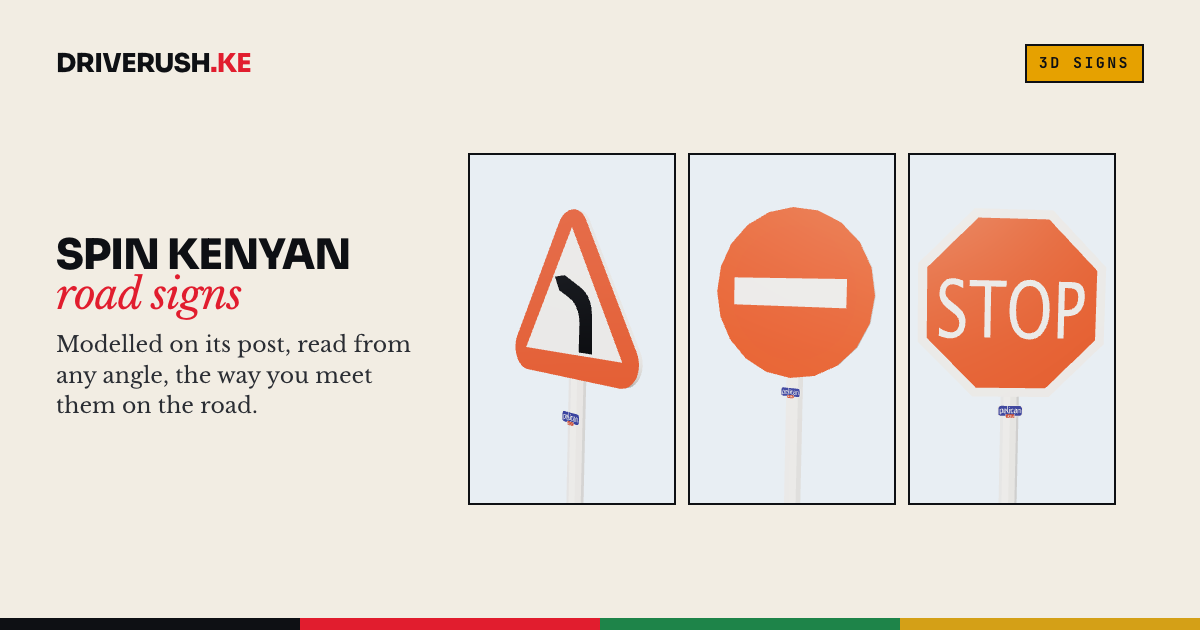
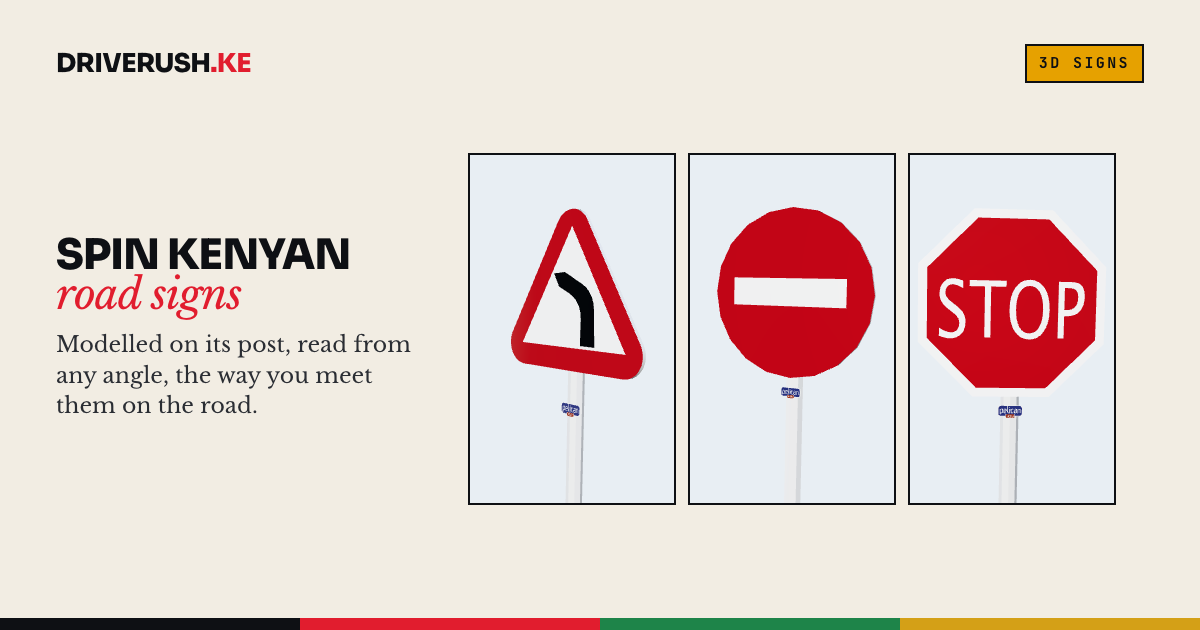
feat: give the 3D signs true colours and real reflective sheeting
The models ship a brick orange red and a washed-out periwinkle blue, and
fiber's default ACES tone mapping pushed the red further toward orange.
Correct both at load, close to RAL 3020 and RAL 5017, and switch to neutral
tone mapping so base colours stay true. The GLB files are untouched.

Faces are now retroreflective sheeting: a glossy clearcoat that shows
reflection strips sweeping across as the sign turns, plus a shader term
that glows brightest head-on with a honeycomb of twinkling cells. It's a
hint by day and the main light source at night. Backs, posts, black legend
and the Pelican sticker don't glow. The strips leave the resting camera
angle clear so a sign at rest keeps its true colour and a readable legend.

Re-shoot the homepage poster and the 3D social card to match, turning the
card's first tile to -20 degrees so it doesn't land on a reflection strip.

Changed region(s): [[0.7708, 0.3317, 0.925, 0.6635], [0.5858, 0.3317, 0.74, 0.6333], [0.4008, 0.3317, 0.555, 0.6937]]

diff --git a/app/components/brand/sign-3d-canvas.tsx b/app/components/brand/sign-3d-canvas.tsx
@@ -5,9 +5,11 @@
  * never in the main bundle. Keep all heavy 3D imports in here.
  *
  * The GLBs are full roadside signs (panel on a ~5-unit post), so the camera
- * frames the panel close with a sliver of post showing below. Materials are flat
- * PBR; we add an in-engine `Lightformer` environment (no external HDRI fetch) for
- * a reflective road-sign sheen, plus a soft contact shadow to ground it.
+ * frames the panel close with a sliver of post showing below. Their materials are
+ * flat colours, so the sign look is built here: faces become retroreflective
+ * sheeting (see `sheetingMaterial`), lit by an in-engine `Lightformer` environment
+ * (no external HDRI fetch) whose strips sweep across the gloss as the sign turns,
+ * plus a soft contact shadow to ground it.
  */
 import * as React from "react";
 import { Canvas, useThree, type ThreeElements } from "@react-three/fiber";
@@ -40,48 +42,152 @@ export type Sign3DCanvasProps = {
   onModelReady?: (modelSrc: string) => void;
 };
 
-/** Load a GLB, clone it (so per-instance material tweaks don't poison the cache)
- *  and give the surfaces a touch more reflectivity for the sign sheen. */
+/** Real road-sign colours, close to RAL 3020 Traffic Red and RAL 5017 Traffic Blue.
+ *  The GLBs ship a brick orange (#c24825) and a washed-out periwinkle (#607cf3,
+ *  #6284e4), so they're corrected at load rather than re-exporting 83 models. */
+const SIGN_RED = new THREE.Color("#c1121c");
+const SIGN_BLUE = new THREE.Color("#00559a");
+function trueSignColor(c: THREE.Color): THREE.Color {
+  if (c.r > 0.45 && c.g < 0.1 && c.b < 0.05) return SIGN_RED;
+  if (c.b > 0.6 && c.r < 0.2 && c.g < 0.3) return SIGN_BLUE;
+  return c;
+}
+
+/** The little Pelican sticker on the post is printed vinyl, not sheeting. */
+const isSticker = (name: string) => /Pelican|Dark_Blue|pasted__/.test(name);
+
+/** How hard the sheeting throws light back: a hint by day, the whole show at night. */
+const RETRO_GAIN = { day: 0.16, night: 1.4 };
+
+/** Front of the face on sign-on-post models. The post's radius stops just short
+ *  of it, so the post doesn't glow along with the sheeting. */
+const POST_FRONT_Z = 0.102;
+
+/**
+ * The part of the sheeting no stock material does: returning light to its source.
+ * The camera is the headlight, so brightness follows how squarely the face looks
+ * back at it, a broad glow and then a flash as the sign comes head-on. Up close the
+ * sheeting shows its honeycomb of sealed cells, each catching the light a little
+ * differently, so they twinkle as the sign turns. Cells fade out once they get too
+ * small to draw cleanly. Multiplying by the base colour keeps black legend black,
+ * as printed ink doesn't retroreflect.
+ */
+const SHEETING_GLSL = `
+  float signFacing = saturate(dot(normal, normalize(vViewPosition)));
+  float signRetro = 0.85 * pow(signFacing, 1.5) + 0.5 * pow(signFacing, 48.0);
+
+  vec2 signGrid = vSignXY / 0.024;
+  const vec2 signHex = vec2(1.0, 1.7320508);
+  vec2 signA = mod(signGrid, signHex) - signHex * 0.5;
+  vec2 signB = mod(signGrid - signHex * 0.5, signHex) - signHex * 0.5;
+  vec2 signLocal = dot(signA, signA) < dot(signB, signB) ? signA : signB;
+  float signSeed = fract(sin(dot(signGrid - signLocal, vec2(127.1, 311.7))) * 43758.5453);
+  float signAngle = signSeed * 6.2832;
+  float signTwinkle = 0.5 + 0.5 * sin(signAngle * 3.0 + dot(normal.xy, vec2(cos(signAngle), sin(signAngle))) * 22.0);
+  float signEdge = 0.5 - max(abs(signLocal.x), dot(abs(signLocal), normalize(signHex)));
+  float signCell = mix(0.5, 1.0, smoothstep(0.0, 0.07, signEdge)) * (0.8 + 0.5 * signTwinkle);
+  float signDetail = 1.0 - smoothstep(0.4, 0.8, fwidth(signGrid.x) + fwidth(signGrid.y));
+
+  totalEmissiveRadiance += diffuseColor.rgb * uRetroGain * signRetro
+    * mix(1.0, signCell, signDetail) * vSheeting;
+`;
+
+/**
+ * Retroreflective sheeting: a satin colour layer under a glossy acrylic overlay
+ * (the clearcoat carries the crisp reflections), plus {@link SHEETING_GLSL}.
+ */
+function sheetingMaterial(
+  src: THREE.MeshStandardMaterial,
+  retroGain: { value: number },
+  faceMinZ: number,
+): THREE.MeshPhysicalMaterial {
+  const mat = new THREE.MeshPhysicalMaterial({
+    name: src.name,
+    side: src.side,
+    color: trueSignColor(src.color),
+    metalness: 0,
+    roughness: 0.5,
+    specularIntensity: 0.35,
+    clearcoat: 1,
+    clearcoatRoughness: 0.14,
+  });
+  mat.onBeforeCompile = (shader) => {
+    shader.uniforms.uRetroGain = retroGain;
+    shader.uniforms.uFaceMinZ = { value: faceMinZ };
+    shader.vertexShader =
+      "uniform float uFaceMinZ;\nvarying float vSheeting;\nvarying vec2 vSignXY;\n" +
+      shader.vertexShader.replace(
+        "#include <begin_vertex>",
+        `#include <begin_vertex>
+        // Sign faces all look down +Z, so this leaves out the back, edges and post.
+        vSheeting = step(0.3, normal.z) * step(uFaceMinZ, position.z);
+        vSignXY = position.xy;`,
+      );
+    shader.fragmentShader =
+      "uniform float uRetroGain;\nvarying float vSheeting;\nvarying vec2 vSignXY;\n" +
+      shader.fragmentShader.replace(
+        "#include <emissivemap_fragment>",
+        `#include <emissivemap_fragment>\n${SHEETING_GLSL}`,
+      );
+  };
+  mat.customProgramCacheKey = () => "road-sign-sheeting";
+  return mat;
+}
+
+/** Load a GLB, clone it (so per-instance material changes don't poison the cache)
+ *  and dress its faces in retroreflective sheeting. */
 function SignModel({
   modelSrc,
   groupRef,
+  night,
   yaw = 0,
   pitch = 0,
   onReady,
 }: {
   modelSrc: string;
   groupRef: React.RefObject<THREE.Group | null>;
+  night: boolean;
   yaw?: number;
   pitch?: number;
   onReady?: () => void;
 }) {
   const { scene } = useGLTF(modelSrc);
+  const invalidate = useThree((s) => s.invalidate);
+
+  // One uniform shared by the sign's materials, so a theme flip needs no rebuild.
+  const [retroGain] = React.useState(() => ({
+    value: night ? RETRO_GAIN.night : RETRO_GAIN.day,
+  }));
+  React.useEffect(() => {
+    retroGain.value = night ? RETRO_GAIN.night : RETRO_GAIN.day;
+    invalidate();
+  }, [night, retroGain, invalidate]);
 
   const model = React.useMemo(() => {
     const root = scene.clone(true);
+    // A handful of models are bare panels with no post to leave out.
+    const hasPost =
+      new THREE.Box3().setFromObject(root).getSize(new THREE.Vector3()).y > 3;
+    const faceMinZ = hasPost ? POST_FRONT_Z : -Infinity;
     root.traverse((o) => {
       const mesh = o as THREE.Mesh;
       if (!mesh.isMesh) return;
       mesh.castShadow = true;
       mesh.receiveShadow = true;
-      // Retroreflective road-sign look: pick up the environment, stay matte
-      // enough to read the colour, never mirror-shiny. Clone first so the tweak
-      // doesn't poison the GLB cache shared across sign instances.
-      const tweak = (m: THREE.Material): THREE.Material => {
-        const mat = m.clone() as THREE.MeshStandardMaterial;
-        if ("envMapIntensity" in mat) mat.envMapIntensity = 1.15;
-        if ("roughness" in mat)
-          mat.roughness = Math.min(mat.roughness ?? 0.5, 0.42);
-        if ("metalness" in mat)
-          mat.metalness = Math.max(mat.metalness ?? 0, 0.04);
-        return mat;
-      };
+      const dress = (m: THREE.Material): THREE.Material =>
+        isSticker(m.name)
+          ? m.clone()
+          : sheetingMaterial(
+              m as THREE.MeshStandardMaterial,
+              retroGain,
+              faceMinZ,
+            );
       mesh.material = Array.isArray(mesh.material)
-        ? mesh.material.map(tweak)
-        : tweak(mesh.material);
+        ? mesh.material.map(dress)
+        : dress(mesh.material);
     });
     return root;
-  }, [scene]);
+  }, [scene, retroGain]);
 
   // The GLB resolves a commit (or more) after the camera rig mounts, so by then
   // FitCamera has already run against an empty group. Once the geometry is in
@@ -178,6 +284,20 @@ function FitCamera({
   return null;
 }
 
+/** Softboxes ringed around the sign: azimuth in degrees (0 = straight out of the
+ *  face). The resting camera's reflection lands near -23 and a strip there would
+ *  wash the red pink and grey out the legend, so that gap stays open: the sign
+ *  rests in its true colour with a highlight at the edge, and the strips only cross
+ *  the face as it turns. Uneven spacing keeps the sweep from feeling mechanical. */
+const REFLECTION_STRIPS = [
+  { azimuth: -76, width: 2.2, power: 3 },
+  { azimuth: -44, width: 1, power: 5 },
+  { azimuth: 6, width: 0.7, power: 4 },
+  { azimuth: 52, width: 1.6, power: 4 },
+  { azimuth: 150, width: 2, power: 3 },
+  { azimuth: -140, width: 1.2, power: 3 },
+];
+
 function SceneContents({
   modelSrc,
   yaw = 0,
@@ -212,20 +332,13 @@ function SceneContents({
 
       {night ? (
         <>
-          {/* Moonlit ambience — cool and low. */}
-          <ambientLight intensity={0.25} color="#2b3a5e" />
+          {/* Moonlit ambience: cool and low. The sheeting supplies the brightness. */}
           <hemisphereLight
-            intensity={0.4}
-            color="#1b2747"
+            intensity={0.5}
+            color="#2b3a5e"
             groundColor="#05070d"
           />
-          {/* Warm streetlight / headlight key, raking the face. */}
-          <directionalLight
-            position={[1.4, 3.2, 7]}
-            intensity={1.6}
-            color="#ffce92"
-          />
-          {/* Cool moon fill from above for separation. */}
+          {/* Cool moon rim from above for separation. */}
           <directionalLight
             position={[-4, 8, 1]}
             intensity={0.5}
@@ -234,55 +347,53 @@ function SceneContents({
         </>
       ) : (
         <>
-          {/* Daylight — bright and neutral-warm. */}
-          <ambientLight intensity={0.7} />
+          {/* Diffuse daylight. No flat ambient: it washes out the red and leaves
+              no headroom for the reflections to read on white. */}
           <hemisphereLight
-            intensity={0.55}
-            color="#cfe2ff"
-            groundColor="#b9a884"
+            intensity={0.85}
+            color="#e8f1ff"
+            groundColor="#bdb29a"
           />
           {/* Sun key, raking the face. */}
           <directionalLight
             position={[1.5, 4, 8]}
-            intensity={2}
-            color="#fff4e0"
-          />
-          {/* Soft sky fill. */}
-          <directionalLight
-            position={[-6, 5, -2]}
-            intensity={0.5}
-            color="#cdddee"
+            intensity={1.15}
+            color="#fff6e8"
           />
         </>
       )}
 
-      {/* In-engine studio env — reflections without fetching a remote HDRI.
-          Subdued + cool at night, bright by day. */}
+      {/* What the gloss reflects: a dim sky so the colour stays saturated, then
+          narrow bright strips around the sign that sweep across it as it turns.
+          In-engine, so no remote HDRI fetch. */}
       <Environment resolution={256}>
+        <color attach="background" args={[night ? "#04060c" : "#39424d"]} />
         <Lightformer
-          intensity={night ? 1.2 : 2.2}
-          position={[0, 4, 5]}
-          scale={[8, 8, 1]}
-          color={night ? "#ffd9a3" : "#fff7ec"}
+          intensity={night ? 0.12 : 0.9}
+          position={[0, 9, 0]}
+          scale={[24, 24, 1]}
+          color={night ? "#27345c" : "#dcebff"}
         />
-        <Lightformer
-          intensity={night ? 0.45 : 1.1}
-          position={[-5, 2, 2]}
-          scale={[5, 5, 1]}
-          color={night ? "#7e93c8" : "#dfe8ff"}
-        />
-        <Lightformer
-          intensity={night ? 0.35 : 0.9}
-          position={[5, 1, -2]}
-          scale={[5, 5, 1]}
-          color={night ? "#3f4d70" : "#ffffff"}
-        />
+        {REFLECTION_STRIPS.map(({ azimuth, width, power }) => (
+          <Lightformer
+            key={azimuth}
+            position={[
+              Math.sin(azimuth * DEG) * 10,
+              -1,
+              Math.cos(azimuth * DEG) * 10,
+            ]}
+            scale={[width, 10, 1]}
+            intensity={power * (night ? 0.3 : 1)}
+            color={night ? "#d5ddf5" : "#ffffff"}
+          />
+        ))}
       </Environment>
 
       <React.Suspense fallback={null}>
         <SignModel
           modelSrc={modelSrc}
           groupRef={groupRef}
+          night={night}
           yaw={yaw}
           pitch={pitch}
           onReady={handleReady}
@@ -331,7 +442,14 @@ export default function Sign3DCanvas(props: Sign3DCanvasProps) {
       shadows={false}
       dpr={[1, 2]}
       frameloop={props.autoRotate ? "always" : "demand"}
-      gl={{ antialias: true, alpha: true, preserveDrawingBuffer: false }}
+      // Khronos neutral, not fiber's default ACES: ACES drags saturated reds to
+      // orange, and this one is built to keep base colours true.
+      gl={{
+        antialias: true,
+        alpha: true,
+        preserveDrawingBuffer: false,
+        toneMapping: THREE.NeutralToneMapping,
+      }}
       camera={{ fov: 35, position: [0, 1, 8], near: 0.1, far: 100 }}
     >
       <SceneContents {...props} />

diff --git a/app/routes/tools/og.tsx b/app/routes/tools/og.tsx
@@ -173,9 +173,7 @@ function PelicanCard() {
   // Two signs that frame cleanly on the sheet. The trainer's region boxes are
   // hand-placed, so some signs sit high in their box and crop badly at poster
   // size; these two don't.
-  const signs = ["R.1", "P.1", "M.1"]
-    .map(region)
-    .filter(Boolean) as Region[];
+  const signs = ["R.1", "P.1", "M.1"].map(region).filter(Boolean) as Region[];
   return (
     <Card
       id="pelican"
@@ -257,8 +255,9 @@ function Signs3DCard() {
               <Sign3DViewer
                 modelSrc={`/assets/road-signs/models/${m}.glb`}
                 // Degrees. Turning the outer two shows these are real models
-                // on posts rather than flat art.
-                yaw={i === 1 ? 0 : i === 0 ? -26 : 26}
+                // on posts rather than flat art. -20, not more: past that the
+                // gloss catches a reflection strip and washes this still out.
+                yaw={i === 1 ? 0 : i === 0 ? -20 : 26}
                 pitch={-3}
                 // `zoom` scales camera distance, so below 1 moves closer. The
                 // default framing leaves too much air for a 210px tile.
